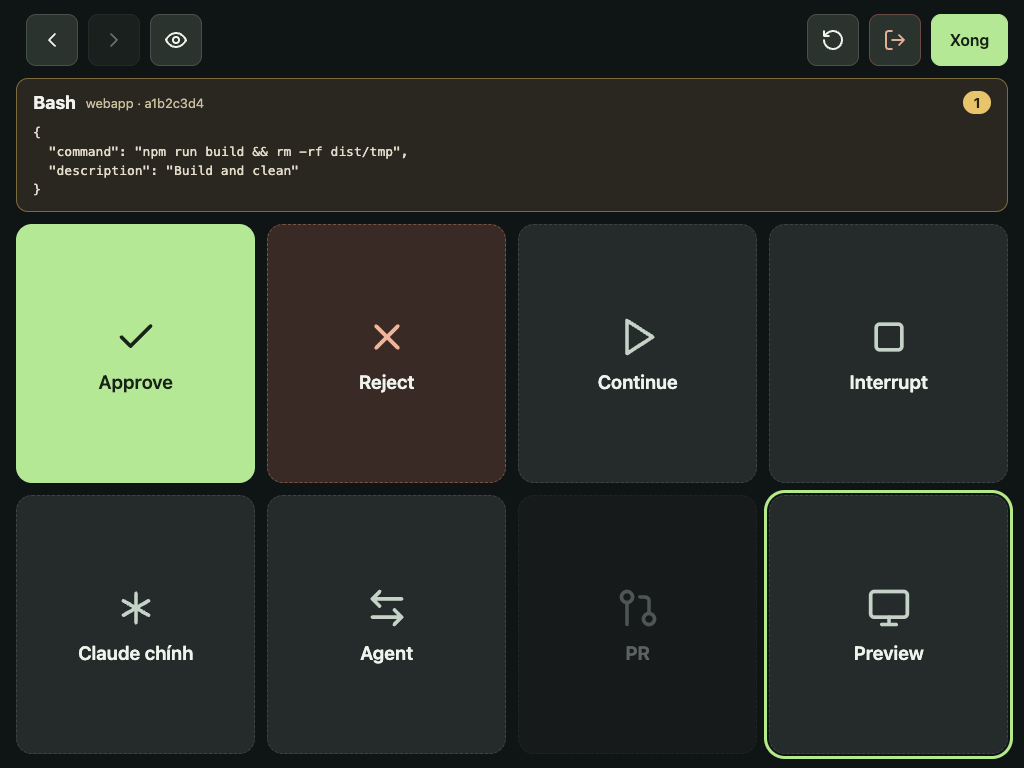
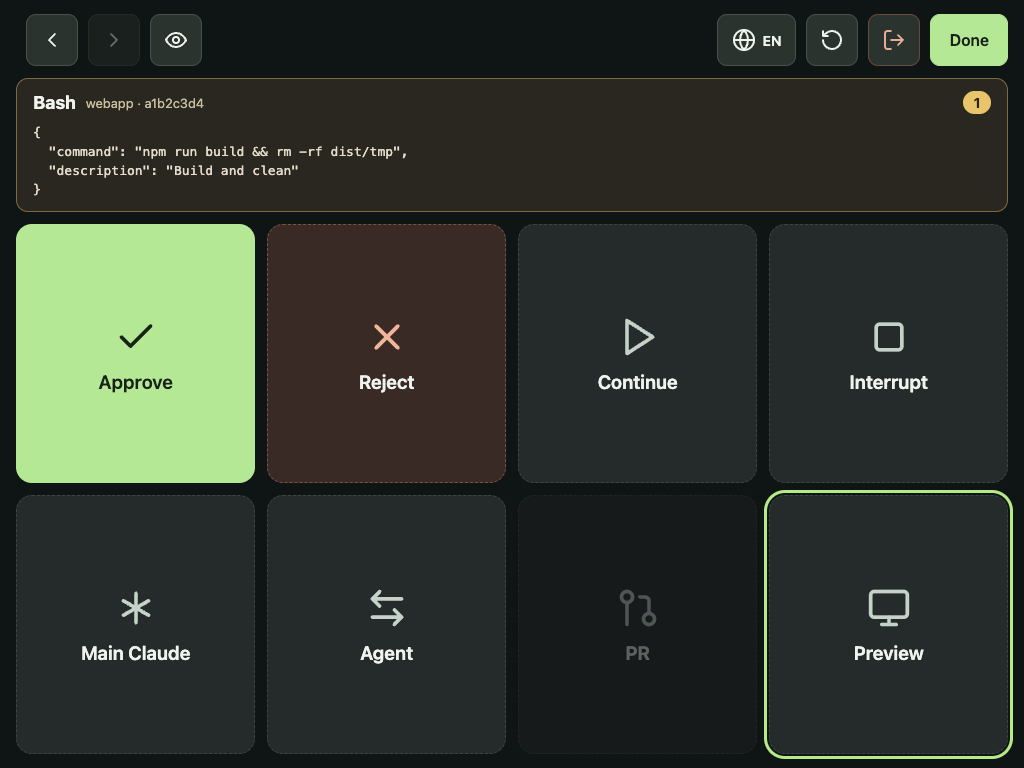
feat: English UI with language switcher
Adds an EN/VI dictionary for all UI text, a globe button on the pairing
screen and in edit layout, English server errors via X-Deck-Lang, and
English demo screenshots.

Claude-Session: https://claude.ai/code/session_01GnLWahVSdUFHm44EyF1deC

Changed region(s): [[0.6875, 0.0, 0.9688, 0.0938], [0.0625, 0.8438, 0.1875, 0.875]]

diff --git a/public/app.js b/public/app.js
@@ -3,9 +3,47 @@
   var token = '', state = null, selected = null, selectedRequest = '', requestChosen = false, busy = false, polling = false, timer = 0, detailsLoading = false;
   var KEYS = ['approve', 'reject', 'continue', 'interrupt', 'mainClaude', 'choose', 'pr', 'preview'], layout, editing = false, picked = '';
   var $ = function (id) { return document.getElementById(id); };
+  var TEXT = {
+    vi: {
+      pinLabel: 'Mã ghép nối', connect: 'Kết nối', chooseAgent: 'Chọn agent', details: 'Chi tiết phiên', links: 'Đặt liên kết',
+      editLayout: 'Sửa bố cục', moveLeft: 'Chuyển trước', moveRight: 'Chuyển sau', toggleKey: 'Ẩn / hiện nút', reset: 'Bố cục mặc định',
+      unpair: 'Ngắt ghép nối', done: 'Xong', chooseRequest: 'Chọn yêu cầu', deck: 'Bảng điều khiển', mainClaude: 'Claude chính',
+      openPr: 'Mở PR', openPreview: 'Mở preview', close: 'Đóng', linksTitle: 'Liên kết', save: 'Lưu', language: 'Ngôn ngữ',
+      connected: 'Đã kết nối Mac', disconnected: 'Mất kết nối', badResponse: 'Phản hồi không hợp lệ.', failed: 'Không thực hiện được.',
+      offline: 'Không kết nối được Mac. Kiểm tra Wi‑Fi và cửa sổ Orca Deck.', agentChanged: 'Agent đã đổi phiên. Chọn lại.', session: 'phiên',
+      working: 'Đang thực hiện…', sentContinue: 'Đã gửi Continue.', pinned: 'Đã ghim Claude chính.', doneMsg: 'Xong.',
+      approved: 'Đã duyệt một lần.', rejected: 'Đã từ chối.', noAgents: 'Chưa có Claude/Codex trong Orca.', pinAs: 'Ghim làm Claude chính',
+      waiting: 'chờ duyệt', paired: 'Đã kết nối. Ghim Claude chính.', mainChanged: 'Claude chính đã đổi phiên. Ghim lại.', saved: 'Đã lưu.'
+    },
+    en: {
+      pinLabel: 'Pairing code', connect: 'Connect', chooseAgent: 'Choose agent', details: 'Session details', links: 'Set links',
+      editLayout: 'Edit layout', moveLeft: 'Move earlier', moveRight: 'Move later', toggleKey: 'Hide / show key', reset: 'Default layout',
+      unpair: 'Unpair', done: 'Done', chooseRequest: 'Choose request', deck: 'Control deck', mainClaude: 'Main Claude',
+      openPr: 'Open PR', openPreview: 'Open preview', close: 'Close', linksTitle: 'Links', save: 'Save', language: 'Language',
+      connected: 'Connected to Mac', disconnected: 'Disconnected', badResponse: 'Invalid response.', failed: "Couldn't do that.",
+      offline: "Can't reach the Mac. Check Wi‑Fi and the Orca Deck window.", agentChanged: 'The agent session changed. Choose again.', session: 'session',
+      working: 'Working…', sentContinue: 'Sent Continue.', pinned: 'Main Claude pinned.', doneMsg: 'Done.',
+      approved: 'Approved once.', rejected: 'Rejected.', noAgents: 'No Claude/Codex terminals in Orca.', pinAs: 'Pin as main Claude',
+      waiting: 'waiting', paired: 'Connected. Pin your main Claude.', mainChanged: 'Main Claude changed session. Pin it again.', saved: 'Saved.'
+    }
+  };
+  var lang = '';
+  try { lang = localStorage.getItem('orcaDeckLang') || ''; } catch (e) {}
+  if (!TEXT[lang]) lang = /^vi/i.test(navigator.language || '') ? 'vi' : 'en';
+  function t(key) { return TEXT[lang][key]; }
+  function applyLang() {
+    var i, nodes = document.querySelectorAll('[data-t]');
+    for (i = 0; i < nodes.length; i++) nodes[i].textContent = t(nodes[i].getAttribute('data-t'));
+    nodes = document.querySelectorAll('[data-ta]');
+    for (i = 0; i < nodes.length; i++) nodes[i].setAttribute('aria-label', t(nodes[i].getAttribute('data-ta')));
+    nodes = document.querySelectorAll('.lang-code');
+    for (i = 0; i < nodes.length; i++) nodes[i].textContent = lang.toUpperCase();
+    document.documentElement.lang = lang;
+    if (!agent()) $('agentTitle').textContent = t('chooseAgent');
+  }
   try { token = localStorage.getItem('orcaDeckToken') || ''; } catch (e) {}
   function message(text) { clearTimeout(timer); $('message').textContent = text || ''; if (text) timer = setTimeout(function () { $('message').textContent = ''; }, 4000); }
-  function connected(on) { $('dot').className = on ? 'on' : ''; $('dot').setAttribute('aria-label', on ? 'Đã kết nối Mac' : 'Mất kết nối'); }
+  function connected(on) { $('dot').className = on ? 'on' : ''; $('dot').setAttribute('aria-label', t(on ? 'connected' : 'disconnected')); }
   function defaultLayout() { return { order: KEYS.slice(), hidden: {} }; }
   try { layout = JSON.parse(localStorage.getItem('orcaDeckLayout')); } catch (e) {}
   if (!layout || !layout.order || !layout.hidden) layout = defaultLayout();
@@ -31,14 +69,15 @@
     xhr.open(data === null ? 'GET' : 'POST', '/api/' + route, true);
     xhr.timeout = 15000;
     xhr.setRequestHeader('Content-Type', 'application/json');
+    xhr.setRequestHeader('X-Deck-Lang', lang);
     if (token) xhr.setRequestHeader('Authorization', 'Bearer ' + token);
     xhr.onload = function () {
       var result;
-      try { result = JSON.parse(xhr.responseText); } catch (e) { return callback(new Error('Phản hồi không hợp lệ.')); }
+      try { result = JSON.parse(xhr.responseText); } catch (e) { return callback(new Error(t('badResponse'))); }
       if (xhr.status === 401 && route !== 'pair') { token = ''; try { localStorage.removeItem('orcaDeckToken'); } catch (e) {} showPair(); }
-      callback(xhr.status >= 200 && xhr.status < 300 ? null : new Error(result.error || 'Không thực hiện được.'), result);
+      callback(xhr.status >= 200 && xhr.status < 300 ? null : new Error(result.error || t('failed')), result);
     };
-    xhr.onerror = xhr.ontimeout = function () { callback(new Error('Không kết nối được Mac. Kiểm tra Wi‑Fi và cửa sổ Orca Deck.')); };
+    xhr.onerror = xhr.ontimeout = function () { callback(new Error(t('offline'))); };
     xhr.send(data === null ? null : JSON.stringify(data));
   }
   function showPair() { $('pair').hidden = !!token; $('deck').hidden = !token; if (!token) { connected(false); editing = false; applyLayout(); } }
@@ -63,18 +102,18 @@
   }
   function render() {
     var a = agent(), r;
-    if (selected && !a) { selected = null; message('Agent đã đổi phiên. Chọn lại.'); }
-    $('agentTitle').textContent = a ? a.title : 'Chọn agent';
+    if (selected && !a) { selected = null; message(t('agentChanged')); }
+    $('agentTitle').textContent = a ? a.title : t('chooseAgent');
     $('project').textContent = a ? a.project + ' · ' + a.agent : '';
     var select = $('requestSelect');
     while (select.firstChild) select.removeChild(select.firstChild);
     var empty = document.createElement('option');
-    empty.value = ''; empty.textContent = 'Chọn yêu cầu'; select.appendChild(empty);
+    empty.value = ''; empty.textContent = t('chooseRequest'); select.appendChild(empty);
     if (!requestChosen && state.requests.length === 1) { selectedRequest = state.requests[0].id; requestChosen = true; }
     if (selectedRequest && !request()) selectedRequest = '';
     for (var i = 0; i < state.requests.length; i++) {
       var q = state.requests[i], option = document.createElement('option');
-      option.value = q.id; option.textContent = q.project + ' · ' + q.tool + ' · phiên ' + q.sessionId.slice(0, 8); select.appendChild(option);
+      option.value = q.id; option.textContent = q.project + ' · ' + q.tool + ' · ' + t('session') + ' ' + q.sessionId.slice(0, 8); select.appendChild(option);
     }
     select.value = selectedRequest;
     $('request').hidden = !state.requests.length;
@@ -101,9 +140,9 @@
   }
   function action(name, target, after) {
     if (busy || !target) return;
-    busy = true; buttonStates(); message('Đang thực hiện…');
+    busy = true; buttonStates(); message(t('working'));
     api('action', { action: name, handle: target.handle, incarnationId: target.incarnationId }, function (err) {
-      busy = false; message(err ? err.message : name === 'continue' ? 'Đã gửi Continue.' : name === 'pin' ? 'Đã ghim Claude chính.' : 'Xong.');
+      busy = false; message(err ? err.message : t(name === 'continue' ? 'sentContinue' : name === 'pin' ? 'pinned' : 'doneMsg'));
       if (!err && after) after();
       buttonStates(); poll();
     });
@@ -113,14 +152,14 @@
     busy = true; buttonStates();
     api('decision', { id: r.id, decision: value }, function (err) {
       busy = false; selectedRequest = ''; requestChosen = true;
-      message(err ? err.message : value === 'allow' ? 'Đã duyệt một lần.' : 'Đã từ chối.');
+      message(err ? err.message : t(value === 'allow' ? 'approved' : 'rejected'));
       buttonStates(); poll();
     });
   }
   function chooseAgents() {
     if (!state) return;
     var list = $('agentList'); while (list.firstChild) list.removeChild(list.firstChild);
-    if (!state.agents.length) { list.className = 'empty'; list.textContent = 'Chưa có Claude/Codex trong Orca.'; } else list.className = '';
+    if (!state.agents.length) { list.className = 'empty'; list.textContent = t('noAgents'); } else list.className = '';
     var cur = agent();
     state.agents.forEach(function (a) {
       var row = document.createElement('div'); row.className = 'agent-row';
@@ -133,7 +172,7 @@
       if (a.agent.indexOf('claude') === 0) {
         var isMain = state.main && state.main.handle === a.handle && state.main.incarnationId === a.incarnationId;
         var pin = document.createElement('button'); pin.className = 'icon-button' + (isMain ? ' pinned' : '');
-        pin.setAttribute('aria-label', 'Ghim làm Claude chính'); pin.setAttribute('aria-pressed', isMain ? 'true' : 'false');
+        pin.setAttribute('aria-label', t('pinAs')); pin.setAttribute('aria-pressed', isMain ? 'true' : 'false');
         pin.innerHTML = '<svg class="icon"><use xlink:href="#i-pin"/></svg>';
         pin.onclick = function () { action('pin', a, function () { selected = a; $('agentModal').hidden = true; }); };
         row.appendChild(pin);
@@ -157,7 +196,7 @@
     var a = agent(); if (!a) return;
     var waiting = state.requests.filter(function (q) { return q.workspace === a.workspace; }).length;
     $('detailsTitle').textContent = a.title;
-    $('detailsMeta').textContent = a.agent + ' · ' + a.workspace + (waiting ? ' · ' + waiting + ' chờ duyệt' : '');
+    $('detailsMeta').textContent = a.agent + ' · ' + a.workspace + (waiting ? ' · ' + waiting + ' ' + t('waiting') : '');
     if ($('detailsModal').hidden) { $('detailsScreen').textContent = '…'; $('detailsModal').hidden = false; }
     loadDetails();
   }
@@ -171,7 +210,7 @@
     api('pair', { pin: $('pin').value.trim() }, function (err, result) {
       if (err) return message(err.message);
       token = result.token; try { localStorage.setItem('orcaDeckToken', token); } catch (e) {}
-      $('pin').value = ''; showPair(); message('Đã kết nối. Ghim Claude chính.'); poll();
+      $('pin').value = ''; showPair(); message(t('paired')); poll();
     });
   };
   $('requestSelect').onchange = function () { selectedRequest = this.value; requestChosen = true; render(); };
@@ -185,7 +224,7 @@
       if (!state || !state.main) return chooseAgents();
       var found = null;
       state.agents.forEach(function (a) { if (a.handle === state.main.handle && a.incarnationId === state.main.incarnationId) found = a; });
-      if (!found) { message('Claude chính đã đổi phiên. Ghim lại.'); return chooseAgents(); }
+      if (!found) { message(t('mainChanged')); return chooseAgents(); }
       selected = found; render(); action('focus', found);
     }
   };
@@ -204,7 +243,7 @@
     event.preventDefault(); var a = agent(); if (!a || busy) return;
     busy = true; buttonStates();
     api('links', { workspace: a.workspace, pr: $('prUrl').value.trim(), preview: $('previewUrl').value.trim() }, function (err) {
-      busy = false; message(err ? err.message : 'Đã lưu.'); if (!err) $('linksModal').hidden = true; buttonStates(); poll();
+      busy = false; message(err ? err.message : t('saved')); if (!err) $('linksModal').hidden = true; buttonStates(); poll();
     });
   };
   var closes = document.querySelectorAll('.close');
@@ -212,5 +251,11 @@
   ['agentModal', 'linksModal', 'detailsModal'].forEach(function (id) { $(id).onclick = function (event) { if (event.target === this) this.hidden = true; }; });
   $('unpair').onclick = function () { token = ''; state = null; selected = null; try { localStorage.removeItem('orcaDeckToken'); } catch (e) {} showPair(); };
   document.addEventListener('visibilitychange', function () { if (!document.hidden) poll(); });
-  applyLayout(); showPair(); poll(); setInterval(poll, 2000);
+  var langButtons = document.querySelectorAll('.lang-button');
+  for (i = 0; i < langButtons.length; i++) langButtons[i].onclick = function () {
+    lang = lang === 'vi' ? 'en' : 'vi';
+    try { localStorage.setItem('orcaDeckLang', lang); } catch (e) {}
+    applyLang(); if (state) render(); connected(!!state);
+  };
+  applyLang(); applyLayout(); showPair(); poll(); setInterval(poll, 2000);
 }());

diff --git a/public/index.html b/public/index.html
@@ -16,6 +16,7 @@
   <symbol id="i-pr" viewBox="0 0 24 24"><circle cx="18" cy="18" r="3"/><circle cx="6" cy="6" r="3"/><path d="M13 6h3a2 2 0 0 1 2 2v7M6 9v12"/></symbol>
   <symbol id="i-monitor" viewBox="0 0 24 24"><rect width="20" height="14" x="2" y="3" rx="2"/><path d="M8 21h8M12 17v4"/></symbol>
   <symbol id="i-terminal" viewBox="0 0 24 24"><path d="m4 17 6-6-6-6M12 19h8"/></symbol>
+  <symbol id="i-globe" viewBox="0 0 24 24"><circle cx="12" cy="12" r="10"/><path d="M12 2a14.5 14.5 0 0 0 0 20 14.5 14.5 0 0 0 0-20M2 12h20"/></symbol>
   <symbol id="i-link" viewBox="0 0 24 24"><path d="M10 13a5 5 0 0 0 7.54.54l3-3a5 5 0 0 0-7.07-7.07l-1.72 1.71"/><path d="M14 11a5 5 0 0 0-7.54-.54l-3 3a5 5 0 0 0 7.07 7.07l1.71-1.71"/></symbol>
   <symbol id="i-grid" viewBox="0 0 24 24"><rect width="7" height="7" x="3" y="3" rx="1"/><rect width="7" height="7" x="14" y="3" rx="1"/><rect width="7" height="7" x="14" y="14" rx="1"/><rect width="7" height="7" x="3" y="14" rx="1"/></symbol>
   <symbol id="i-left" viewBox="0 0 24 24"><path d="m15 18-6-6 6-6"/></symbol>
@@ -29,45 +30,47 @@
 <main>
   <section id="pair">
     <h1>Orca Deck</h1>
-    <form id="pairForm"><label for="pin">Mã ghép nối</label><input id="pin" type="text" inputmode="numeric" pattern="[0-9]{8}" maxlength="8" autocomplete="off" required><button type="submit" class="primary">Kết nối</button></form>
+    <form id="pairForm"><label for="pin" data-t="pinLabel">Mã ghép nối</label><input id="pin" type="text" inputmode="numeric" pattern="[0-9]{8}" maxlength="8" autocomplete="off" required><button type="submit" class="primary" data-t="connect">Kết nối</button></form>
+    <button type="button" class="icon-button lang-button" data-ta="language" aria-label="Ngôn ngữ"><svg class="icon"><use xlink:href="#i-globe"/></svg><span class="lang-code"></span></button>
   </section>
   <div id="deck" hidden>
     <header id="bar">
       <span id="dot" role="img" aria-label="Chưa kết nối"></span>
-      <button id="agentButton" class="agent-button" aria-label="Chọn agent"><span><strong id="agentTitle">Chọn agent</strong><small id="project"></small></span><svg class="icon"><use xlink:href="#i-down"/></svg></button>
-      <button id="detailsButton" class="icon-button" aria-label="Chi tiết phiên"><svg class="icon"><use xlink:href="#i-terminal"/></svg></button>
-      <button id="linksButton" class="icon-button" aria-label="Đặt liên kết"><svg class="icon"><use xlink:href="#i-link"/></svg></button>
-      <button id="editButton" class="icon-button" aria-label="Sửa bố cục"><svg class="icon"><use xlink:href="#i-grid"/></svg></button>
+      <button id="agentButton" class="agent-button" data-ta="chooseAgent" aria-label="Chọn agent"><span><strong id="agentTitle">Chọn agent</strong><small id="project"></small></span><svg class="icon"><use xlink:href="#i-down"/></svg></button>
+      <button id="detailsButton" class="icon-button" data-ta="details" aria-label="Chi tiết phiên"><svg class="icon"><use xlink:href="#i-terminal"/></svg></button>
+      <button id="linksButton" class="icon-button" data-ta="links" aria-label="Đặt liên kết"><svg class="icon"><use xlink:href="#i-link"/></svg></button>
+      <button id="editButton" class="icon-button" data-ta="editLayout" aria-label="Sửa bố cục"><svg class="icon"><use xlink:href="#i-grid"/></svg></button>
     </header>
     <header id="editBar" hidden>
-      <button id="moveLeft" class="icon-button" aria-label="Chuyển trước"><svg class="icon"><use xlink:href="#i-left"/></svg></button>
-      <button id="moveRight" class="icon-button" aria-label="Chuyển sau"><svg class="icon"><use xlink:href="#i-right"/></svg></button>
-      <button id="toggleKey" class="icon-button" aria-label="Ẩn / hiện nút"><svg class="icon"><use xlink:href="#i-eye"/></svg></button>
+      <button id="moveLeft" class="icon-button" data-ta="moveLeft" aria-label="Chuyển trước"><svg class="icon"><use xlink:href="#i-left"/></svg></button>
+      <button id="moveRight" class="icon-button" data-ta="moveRight" aria-label="Chuyển sau"><svg class="icon"><use xlink:href="#i-right"/></svg></button>
+      <button id="toggleKey" class="icon-button" data-ta="toggleKey" aria-label="Ẩn / hiện nút"><svg class="icon"><use xlink:href="#i-eye"/></svg></button>
       <span class="spacer"></span>
-      <button id="resetLayout" class="icon-button" aria-label="Bố cục mặc định"><svg class="icon"><use xlink:href="#i-reset"/></svg></button>
-      <button id="unpair" class="icon-button danger" aria-label="Ngắt ghép nối"><svg class="icon"><use xlink:href="#i-logout"/></svg></button>
-      <button id="editDone" class="primary">Xong</button>
+      <button type="button" class="icon-button lang-button" data-ta="language" aria-label="Ngôn ngữ"><svg class="icon"><use xlink:href="#i-globe"/></svg><span class="lang-code"></span></button>
+      <button id="resetLayout" class="icon-button" data-ta="reset" aria-label="Bố cục mặc định"><svg class="icon"><use xlink:href="#i-reset"/></svg></button>
+      <button id="unpair" class="icon-button danger" data-ta="unpair" aria-label="Ngắt ghép nối"><svg class="icon"><use xlink:href="#i-logout"/></svg></button>
+      <button id="editDone" class="primary" data-t="done">Xong</button>
     </header>
     <section id="request" class="request" hidden>
       <div class="request-heading"><strong id="requestTool"></strong><span id="requestMeta"></span><span id="requestCount" class="badge"></span></div>
-      <label class="sr-only" for="requestSelect">Chọn yêu cầu duyệt</label><select id="requestSelect"></select>
+      <label class="sr-only" for="requestSelect" data-t="chooseRequest">Chọn yêu cầu</label><select id="requestSelect"></select>
       <pre id="requestInput"></pre>
     </section>
-    <section id="keys" class="keys" aria-label="Bảng điều khiển">
+    <section id="keys" class="keys" data-ta="deck" aria-label="Bảng điều khiển">
       <button id="approve" class="key approve" aria-label="Approve once" disabled><svg class="icon"><use xlink:href="#i-check"/></svg><strong>Approve</strong></button>
       <button id="reject" class="key reject" disabled><svg class="icon"><use xlink:href="#i-x"/></svg><strong>Reject</strong></button>
       <button id="continue" class="key" disabled><svg class="icon"><use xlink:href="#i-play"/></svg><strong>Continue</strong></button>
       <button id="interrupt" class="key" disabled><svg class="icon"><use xlink:href="#i-stop"/></svg><strong>Interrupt</strong></button>
-      <button id="mainClaude" class="key"><svg class="icon"><use xlink:href="#i-star"/></svg><strong>Claude chính</strong></button>
+      <button id="mainClaude" class="key"><svg class="icon"><use xlink:href="#i-star"/></svg><strong data-t="mainClaude">Claude chính</strong></button>
       <button id="choose" class="key"><svg class="icon"><use xlink:href="#i-swap"/></svg><strong>Agent</strong></button>
-      <button id="pr" class="key" aria-label="Mở PR" disabled><svg class="icon"><use xlink:href="#i-pr"/></svg><strong>PR</strong></button>
-      <button id="preview" class="key" aria-label="Mở preview" disabled><svg class="icon"><use xlink:href="#i-monitor"/></svg><strong>Preview</strong></button>
+      <button id="pr" class="key" data-ta="openPr" aria-label="Mở PR" disabled><svg class="icon"><use xlink:href="#i-pr"/></svg><strong>PR</strong></button>
+      <button id="preview" class="key" data-ta="openPreview" aria-label="Mở preview" disabled><svg class="icon"><use xlink:href="#i-monitor"/></svg><strong>Preview</strong></button>
     </section>
   </div>
   <p id="message" role="status" aria-live="polite"></p>
 </main>
-<div id="agentModal" class="modal" hidden><section class="modal-card"><div class="modal-heading"><h2>Agent</h2><button class="icon-button close" aria-label="Đóng"><svg class="icon"><use xlink:href="#i-x"/></svg></button></div><div id="agentList"></div></section></div>
-<div id="detailsModal" class="modal" hidden><section class="modal-card tall"><div class="modal-heading"><h2 id="detailsTitle"></h2><button class="icon-button close" aria-label="Đóng"><svg class="icon"><use xlink:href="#i-x"/></svg></button></div><p id="detailsMeta" class="meta"></p><pre id="detailsScreen" class="screen"></pre></section></div>
-<div id="linksModal" class="modal" hidden><section class="modal-card"><div class="modal-heading"><h2>Liên kết</h2><button class="icon-button close" aria-label="Đóng"><svg class="icon"><use xlink:href="#i-x"/></svg></button></div><form id="linksForm"><label for="prUrl">PR</label><input id="prUrl" type="url" placeholder="https://github.com/…/pull/…"><label for="previewUrl">Preview</label><input id="previewUrl" type="url" placeholder="http://localhost:3000"><button type="submit" class="primary">Lưu</button></form></section></div>
+<div id="agentModal" class="modal" hidden><section class="modal-card"><div class="modal-heading"><h2>Agent</h2><button class="icon-button close" data-ta="close" aria-label="Đóng"><svg class="icon"><use xlink:href="#i-x"/></svg></button></div><div id="agentList"></div></section></div>
+<div id="detailsModal" class="modal" hidden><section class="modal-card tall"><div class="modal-heading"><h2 id="detailsTitle"></h2><button class="icon-button close" data-ta="close" aria-label="Đóng"><svg class="icon"><use xlink:href="#i-x"/></svg></button></div><p id="detailsMeta" class="meta"></p><pre id="detailsScreen" class="screen"></pre></section></div>
+<div id="linksModal" class="modal" hidden><section class="modal-card"><div class="modal-heading"><h2 data-t="linksTitle">Liên kết</h2><button class="icon-button close" data-ta="close" aria-label="Đóng"><svg class="icon"><use xlink:href="#i-x"/></svg></button></div><form id="linksForm"><label for="prUrl">PR</label><input id="prUrl" type="url" placeholder="https://github.com/…/pull/…"><label for="previewUrl">Preview</label><input id="previewUrl" type="url" placeholder="http://localhost:3000"><button type="submit" class="primary" data-t="save">Lưu</button></form></section></div>
 <script src="/app.js"></script>
 </body></html>

diff --git a/server.js b/server.js
@@ -9,6 +9,38 @@ const { promisify } = require('node:util');
 const execute = promisify(execFile);
 const ROOT = __dirname;
 const RUNTIME = path.join(ROOT, '.local', 'runtime.json');
+// English versions of user-facing errors, used when the page sends X-Deck-Lang: en.
+const EN = {
+  'Liên kết không hợp lệ.': 'Invalid link.',
+  'Nhập liên kết đầy đủ http:// hoặc https://.': 'Enter a full http:// or https:// link.',
+  'Chỉ hỗ trợ liên kết HTTP/HTTPS.': 'Only HTTP/HTTPS links are supported.',
+  'Dữ liệu quá lớn.': 'Request too large.',
+  'Dữ liệu không hợp lệ.': 'Invalid data.',
+  'Thao tác hết thời gian hoặc mất kết nối. Kiểm tra Mac trước khi thử lại.': 'Timed out or disconnected. Check the Mac before trying again.',
+  'Orca: Orca không phản hồi.': 'Orca: no response.',
+  'Địa chỉ máy chủ không hợp lệ.': 'Invalid host address.',
+  'Chỉ thao tác từ trang Orca Deck.': 'Only the Orca Deck page can do this.',
+  'Thử lại mã ghép nối sau một phút.': 'Too many attempts. Try the pairing code again in a minute.',
+  'Mã ghép nối chưa đúng.': 'Wrong pairing code.',
+  'Hook chưa được xác thực.': 'Hook not authenticated.',
+  'Hook thiếu thông tin.': 'Hook payload incomplete.',
+  'Cần ghép nối thiết bị.': 'Pair this device first.',
+  'Không có trang này.': 'Not found.',
+  'Quyết định không hợp lệ.': 'Invalid decision.',
+  'Yêu cầu đã được xử lý hoặc hết hạn.': 'This request was already handled or has expired.',
+  'Project không còn trong Orca.': 'This project is no longer in Orca.',
+  'Phiên agent đã thay đổi. Hãy chọn lại.': 'The agent session changed. Choose again.',
+  'Nút không hợp lệ.': 'Invalid button.',
+  'Thao tác đã hết thời gian hoặc mất kết nối.': 'Timed out or disconnected.',
+  'Claude chính phải là một phiên Claude.': 'Main Claude must be a Claude session.',
+  'Hãy đặt liên kết cho project này trước.': 'Set a link for this project first.',
+  'Project này đang có yêu cầu duyệt. Hãy xử lý yêu cầu trước.': 'This project has a pending approval. Handle it first.',
+  'Agent đang chạy; hãy chờ trước khi Continue.': 'The agent is still running; wait before Continue.',
+  'Không đọc được màn hình hiện tại. Hãy thao tác trên Mac.': "Can't read the current screen. Use the Mac.",
+  'Có hộp duyệt trong terminal. Hãy xử lý trên Mac.': 'There is an approval prompt in the terminal. Handle it on the Mac.',
+  'Không có thao tác này.': 'Unknown action.',
+  'Có lỗi khi xử lý. Vui lòng thử lại.': 'Something went wrong. Please try again.'
+};
 
 function failure(status, message) { return Object.assign(new Error(message), { status }); }
 function equalSecret(actual, expected) {
@@ -198,7 +230,10 @@ function createDeck({ config, orca = runOrca, saveConfig = () => {}, requestTime
         return send(res, 200, { ok: true });
       }
       throw failure(404, 'Không có thao tác này.');
-    } catch (err) { send(res, err.status || 500, { error: err.status ? err.message : 'Có lỗi khi xử lý. Vui lòng thử lại.' }); }
+    } catch (err) {
+      const error = err.status ? err.message : 'Có lỗi khi xử lý. Vui lòng thử lại.';
+      send(res, err.status || 500, { error: req.headers['x-deck-lang'] === 'en' ? EN[error] || error : error });
+    }
   });
   server.requestTimeout = 10000;
   server.on('close', () => { for (const r of requests.values()) r.finish(null); });
@@ -230,4 +265,4 @@ if (require.main === module) {
   process.on('SIGINT', stop);
   process.on('SIGTERM', stop);
 }
-module.exports = { createDeck };
+module.exports = { createDeck, EN };

diff --git a/test/server.test.js b/test/server.test.js
@@ -222,3 +222,12 @@ test('details reads the current screen of the exact session only', async t => {
   assert.equal((await f.call('/api/details', { handle: 'term_live', incarnationId: 'old' })).status, 409);
   assert.equal((await f.call('/api/details', { handle: 'term_live', incarnationId: 'inc_live' }, 'wrong')).status, 401);
 });
+
+test('every server error has an English version, sent when the page asks for it', async t => {
+  const source = require('node:fs').readFileSync(require.resolve('../server'), 'utf8');
+  const { EN } = require('../server');
+  for (const [, text] of source.matchAll(/failure\(\d+, '([^']+)'\)/g)) assert.ok(EN[text], 'missing English for: ' + text);
+  const f = await fixture(t);
+  assert.equal((await (await f.call('/api/state', undefined, 'wrong', { 'X-Deck-Lang': 'en' })).json()).error, 'Pair this device first.');
+  assert.equal((await (await f.call('/api/state', undefined, 'wrong')).json()).error, 'Cần ghép nối thiết bị.');
+});

diff --git a/public/style.css b/public/style.css
@@ -18,7 +18,11 @@ label{display:block;font-size:14px;color:#abbcb0}
 /* Pair */
 #pair{margin:auto;width:100%;max-width:380px}
 #pin{letter-spacing:8px;font-size:28px;text-align:center}
-#pair button{width:100%}
+#pair .primary{width:100%}
+.lang-button{width:auto;padding:0 14px}
+.lang-button .icon{margin-right:6px}
+#pair .lang-button{margin:16px auto 0}
+.lang-code{font-size:14px;font-weight:600}
 #deck{flex:1;display:flex;flex-direction:column;min-height:0}
 /* Top bar */
 header{display:flex;align-items:center;margin-bottom:12px;flex-shrink:0}

diff --git a/README.md b/README.md
@@ -44,9 +44,9 @@ flowchart LR
 ## Setup
 
 1. Double-click `Start.command` (or run `npm start`) and keep that window open. Only run one copy.
-2. On the iPad, open the **"Trên iPad"** address printed in the window, e.g. `http://192.168.1.20:8766`. It can change when the Mac changes networks.
+2. On the iPad, open the **"Trên iPad"** ("on iPad") address printed in the window (the server console is in Vietnamese), e.g. `http://192.168.1.20:8766`. It can change when the Mac changes networks.
 3. Enter the 8-digit pairing code from the same window. The code is only shown there; the API never returns it.
-4. Tap the agent bar at the top (or the **Agent** key), then tap the pin icon next to the Claude session you use as your orchestrator. The **Claude chính** ("main Claude") key always brings that session to the front on the Mac.
+4. Tap the agent bar at the top (or the **Agent** key), then tap the pin icon next to the Claude session you use as your orchestrator. The **Main Claude** key always brings that session to the front on the Mac.
 5. Tap the link icon to save a PR URL and a preview URL for the current project. The **PR** / **Preview** keys open them in the Mac's default browser (including `http://localhost:3000`).
 6. Install the approval hook (it keeps your existing hooks and settings and backs up `settings.json` first):
 
@@ -70,15 +70,15 @@ Tip: In Safari, use Share → Add to Home Screen for a full-screen app, and turn
 | **Reject** | Denies the selected request. |
 | **Continue** | Types `continue` + Enter into the selected agent, only if its terminal is idle and no approval prompt is on screen. |
 | **Interrupt** | Sends an interrupt to the selected agent through Orca. |
-| **Claude chính** | Focuses your pinned orchestrator session on the Mac. |
+| **Main Claude** | Focuses your pinned orchestrator session on the Mac. |
 | **Agent** | Lists running Claude/Codex terminals; tap one to focus it on the Mac, or pin a Claude session. |
 | **PR / Preview** | Opens the project's saved link on the Mac (HTTP/HTTPS only). |
 
 **Session details** (terminal icon): shows the selected agent's workspace and its current terminal screen, refreshed every 2 seconds while open. Use it to see what an agent is doing before you approve or continue.
 
-**Edit layout** (grid icon): tap a key, then use ‹ › to move it, the eye to hide or show it, ↺ to reset, and **Xong** ("done") to save. The layout is stored in the browser on that device. The unpair button is also here, so it's hard to hit by accident.
+**Edit layout** (grid icon): tap a key, then use ‹ › to move it, the eye to hide or show it, ↺ to reset, and **Done** to save. The layout is stored in the browser on that device. The unpair button is also here, so it's hard to hit by accident.
 
-The UI labels are in Vietnamese; the main keys use English action names.
+**Language:** the UI is available in English and Vietnamese. It follows the device language on first open; switch with the globe button on the pairing screen or in edit layout. The choice is saved on that device, and server error messages follow it too. To add a language, add a block to `TEXT` in `public/app.js` and to `EN`-style messages in `server.js`.
 
 ## Security
 
